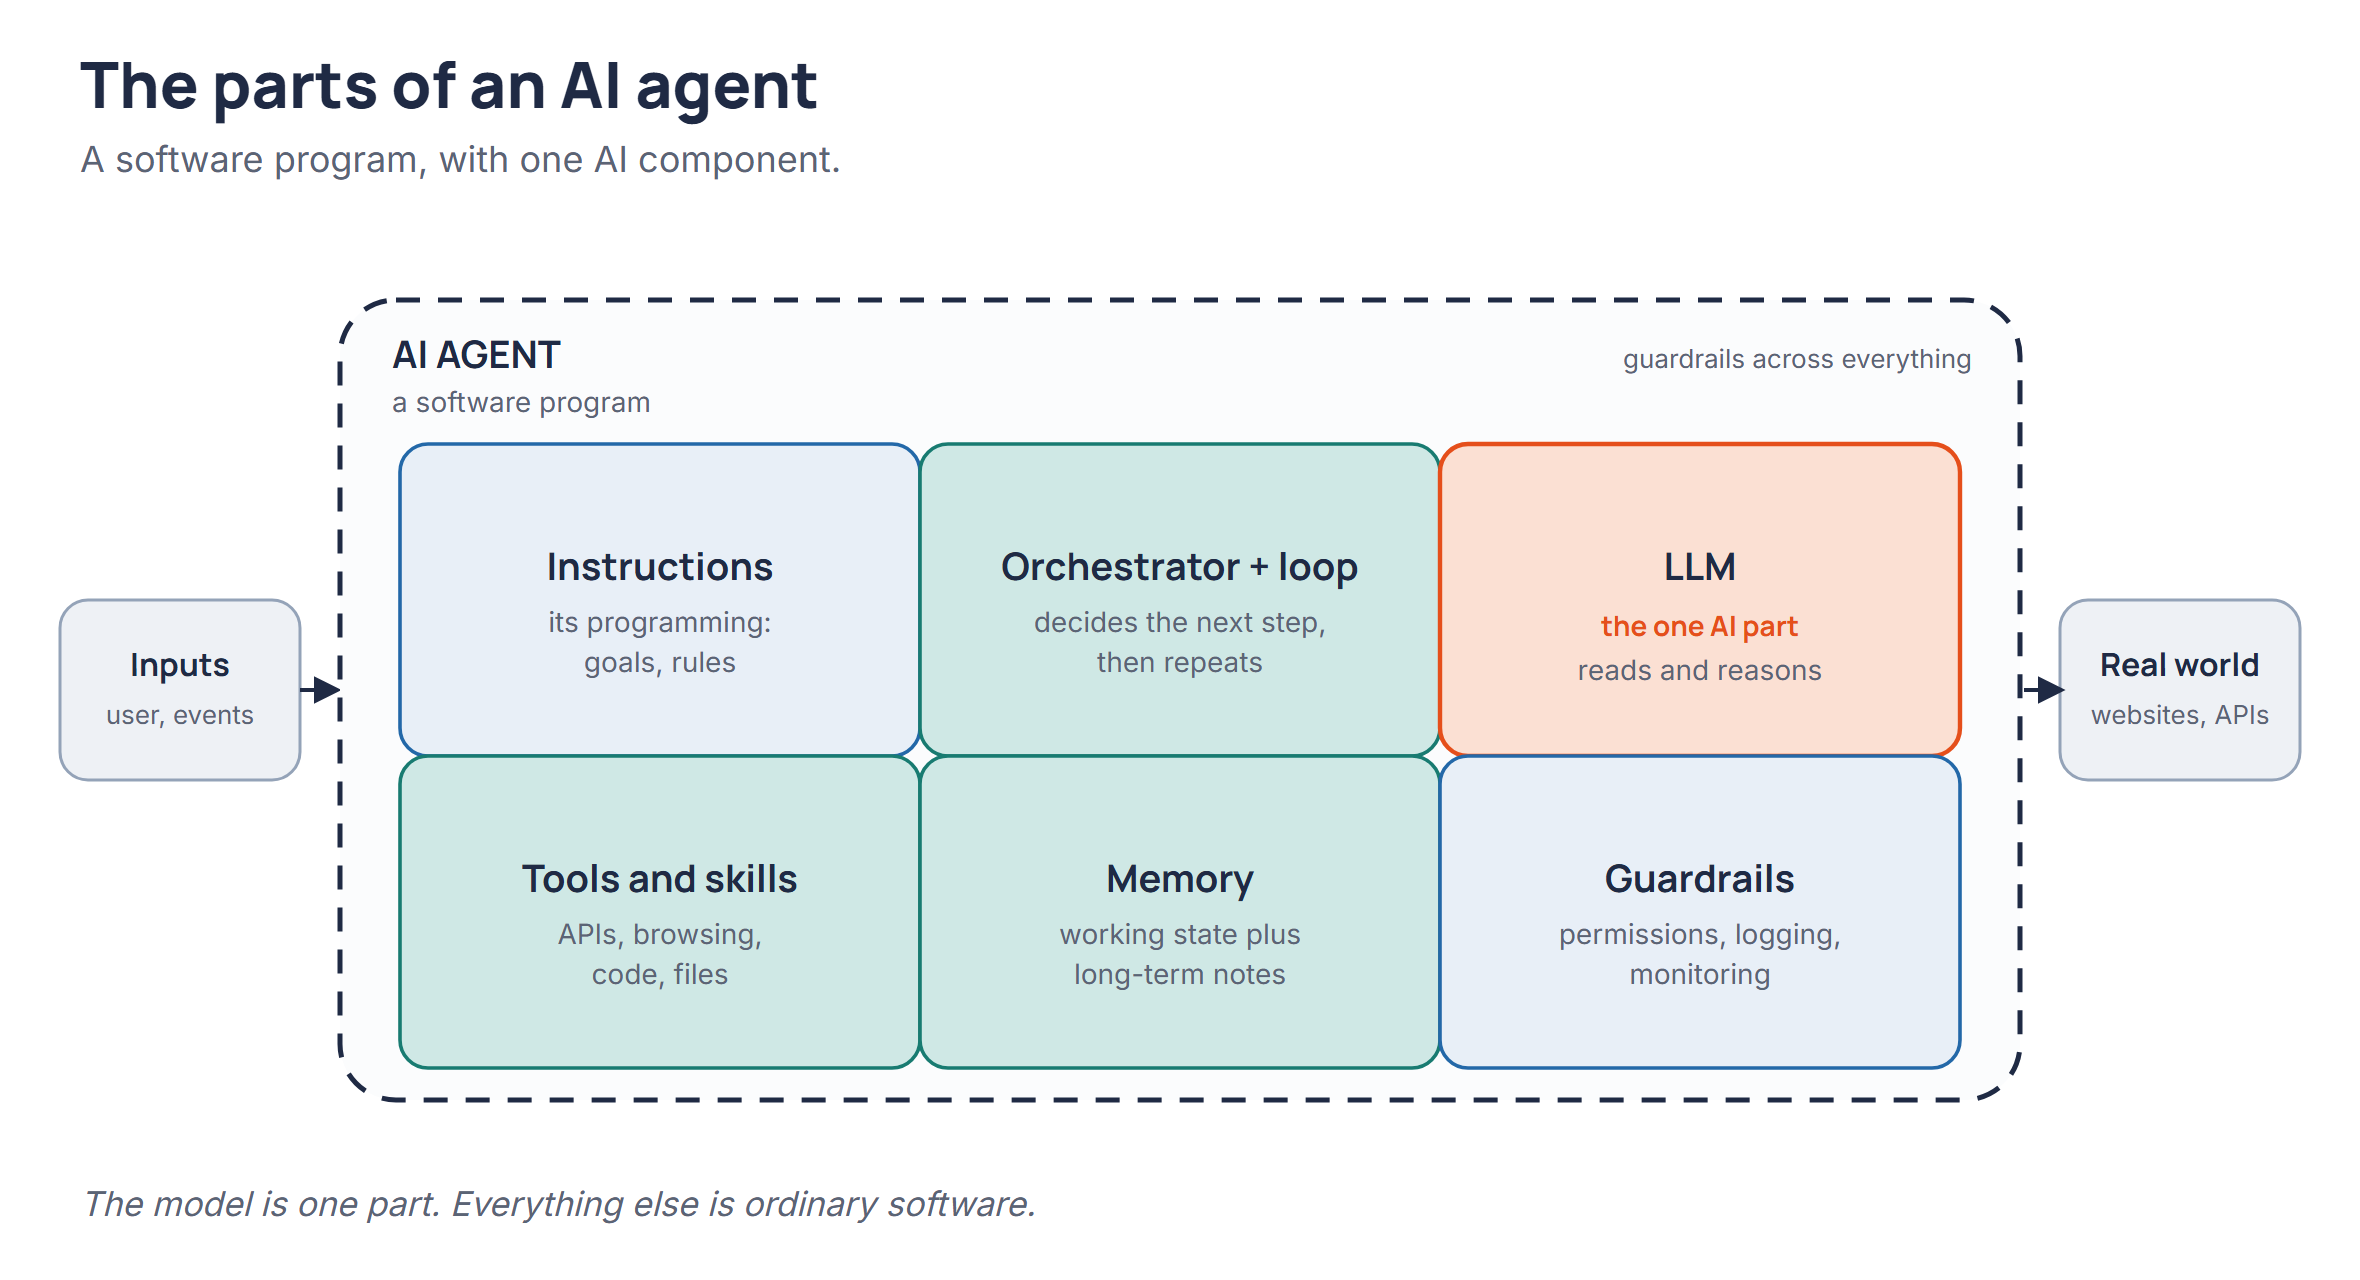
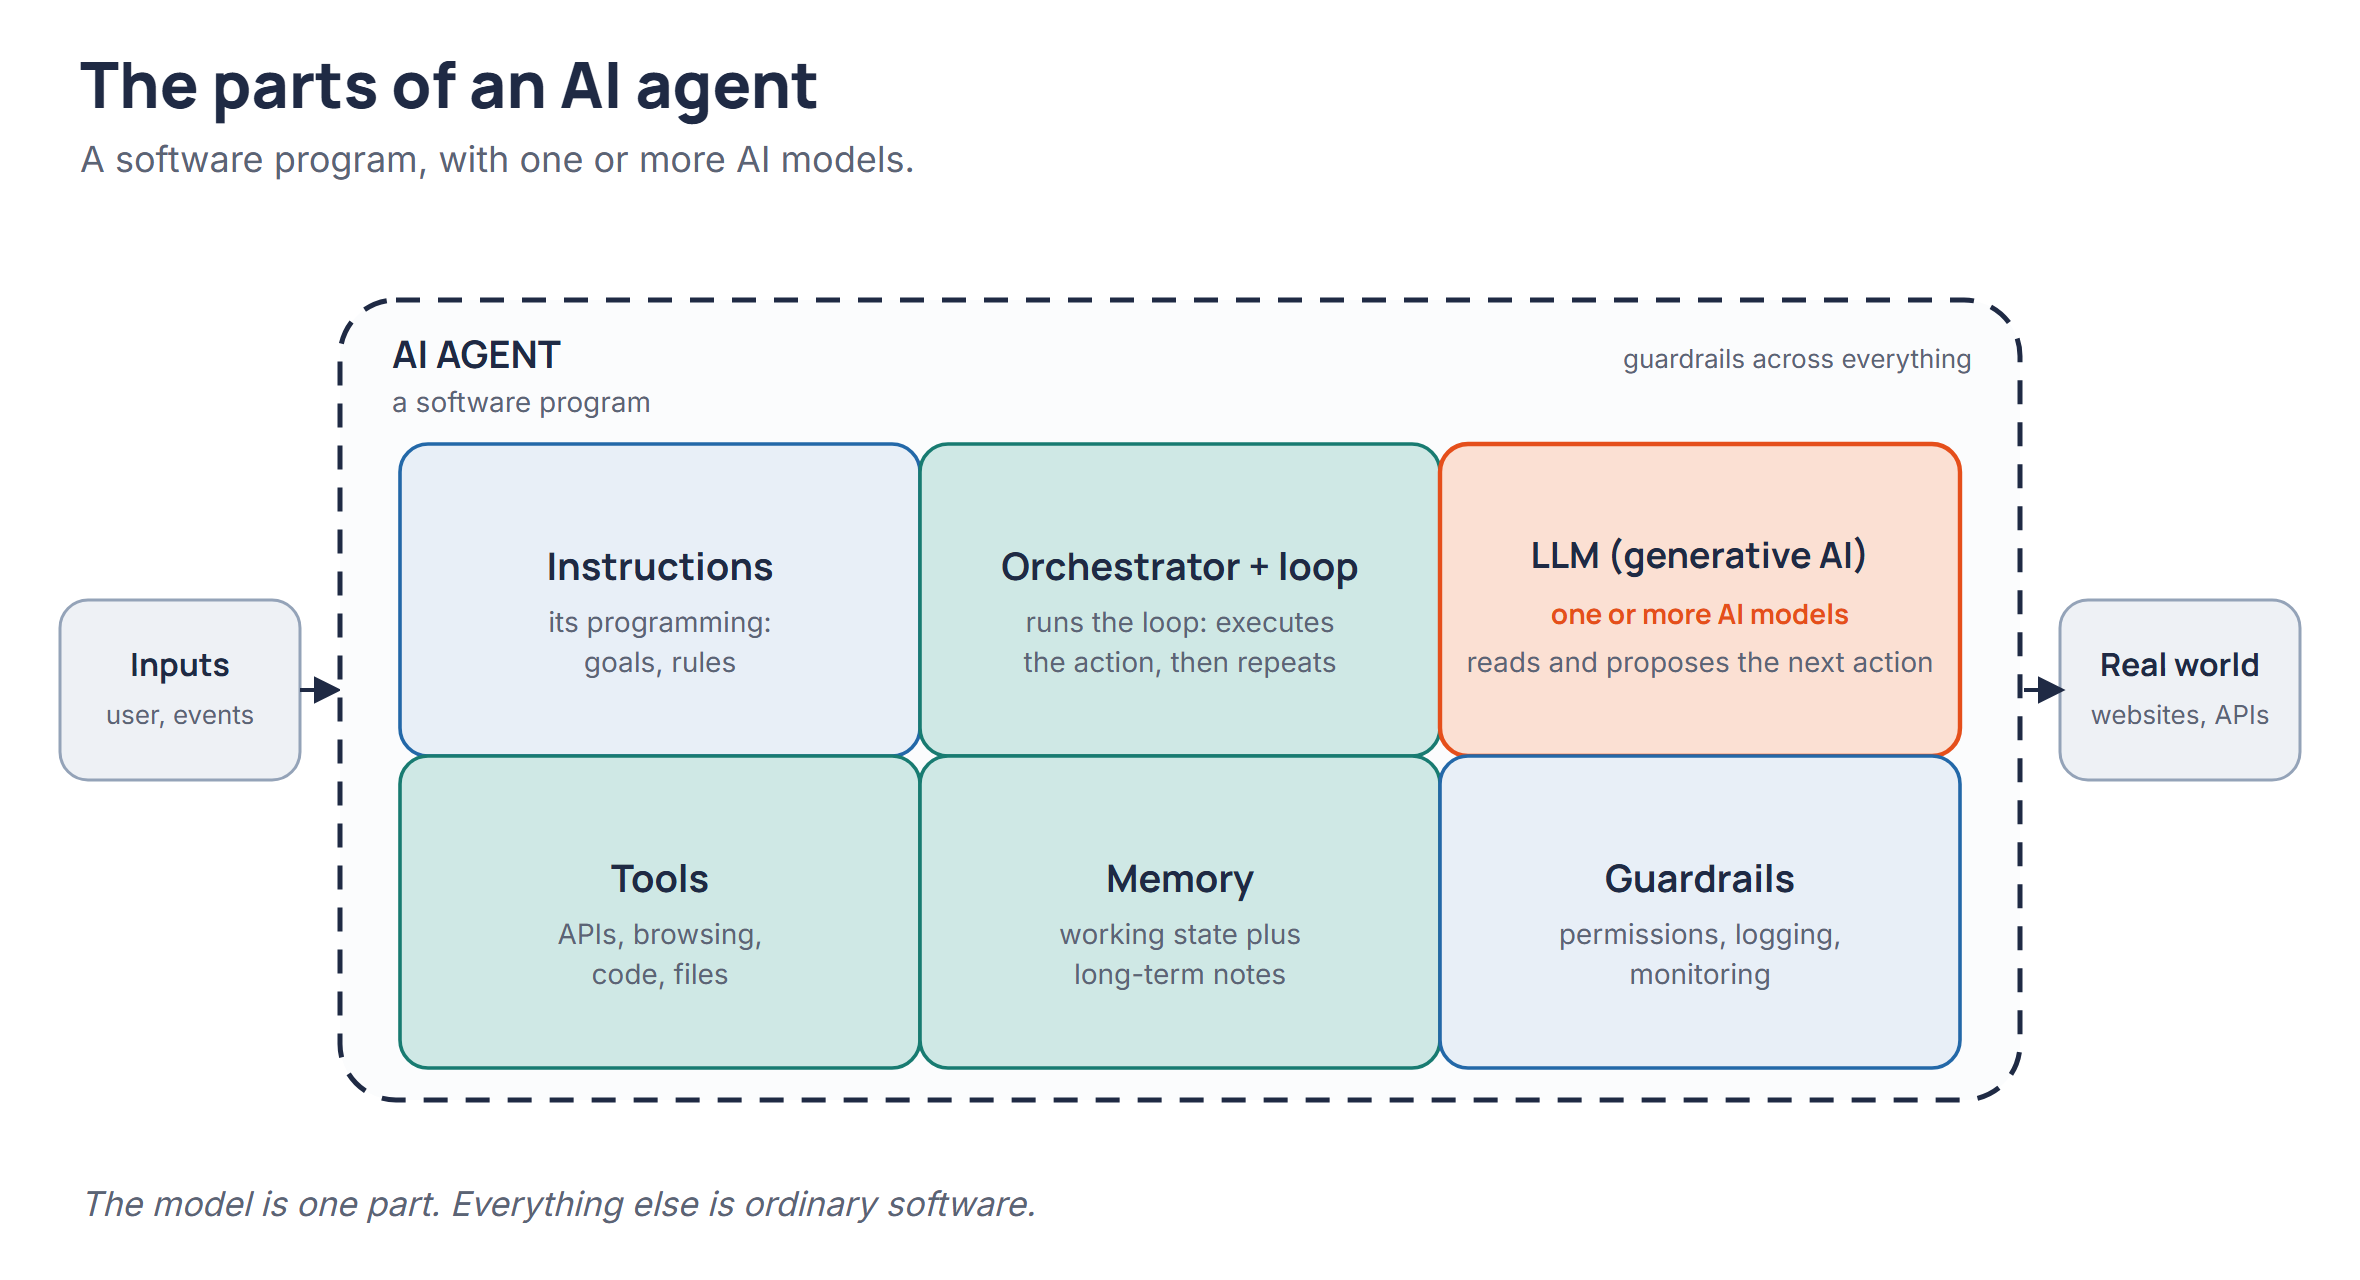
Update AI agent primer: one-or-more AI models, orchestrator accuracy, Tools (not skills), add 'Is ChatGPT an AI agent?' section

diff --git a/primers/what-is-an-ai-agent.html b/primers/what-is-an-ai-agent.html
@@ -4,7 +4,7 @@
   <meta charset="UTF-8" />
   <meta name="viewport" content="width=device-width, initial-scale=1.0" />
   <title>What Is an AI Agent? | FutureInSites</title>
-  <meta name="description" content="An AI agent is a software program with exactly one AI part inside it. A plain-language primer on the six parts of an agent, and how to tell an agent from everything else in the stack." />
+  <meta name="description" content="An AI agent is a software program with one or more AI models at its core. A plain-language primer on the six parts of an agent, and how to tell an agent from everything else in the stack." />
 
   <link rel="preconnect" href="https://fonts.googleapis.com">
   <link rel="preconnect" href="https://fonts.gstatic.com" crossorigin>
@@ -309,6 +309,8 @@
 
     .article-body strong { font-weight: 700; }
     .article-body em { font-style: italic; }
+    .article-body ul { margin: 0 0 1.5rem 1.6rem; }
+    .article-body li { font-size: 1.06rem; color: var(--dark); line-height: 1.85; margin-bottom: 0.4rem; }
 
     /* Pull quote */
     .pull-quote {
@@ -765,11 +767,11 @@
       <a href="../resources.html" class="back-link">← Back to Resources</a>
       <span class="article-eyebrow">Primer</span>
       <h1>What Is an AI Agent?</h1>
-      <p class="article-deck">An AI agent is a software program with exactly one AI part inside it. Here is what that means, what the parts are, and how to tell an agent from everything else in the stack.</p>
+      <p class="article-deck">An AI agent is a software program with one or more AI models at its core. Here is what that means, what the parts are, and how to tell an agent from everything else in the stack.</p>
       <div class="article-meta">
         <span>FutureInSites</span>
         <span class="dot"></span>
-        <span>6 min read</span>
+        <span>7 min read</span>
       </div>
     </div>
   </div>
@@ -779,10 +781,10 @@
 
     <p class="lede">"AI agent" is one of the most used and least defined terms in the stack. The clearest definition is structural: <strong>an AI agent is a software program, and the AI model is only one part inside it.</strong> Everything else that makes it work is ordinary software.</p>
 
-    <p>A model on its own answers a question and stops. It reads text and writes text. An agent is what you get when you wrap that model in a program that can hold a goal, decide the next step, use tools, remember what it has done, and repeat until the work is finished. The model is the one part that reasons. The rest of the program is what turns that reasoning into action.</p>
+    <p>A model on its own answers a question and stops. It reads text and writes text. An agent is what you get when you wrap that model in a program that can hold a goal, decide the next step, use tools, remember what it has done, and repeat until the work is finished. The model is the part that reasons. The rest of the program is what turns that reasoning into action.</p>
 
     <figure class="article-figure">
-      <img src="../articles/ai-agent-compartments.png" alt="The parts of an AI agent: instructions, orchestrator and loop, LLM, tools and skills, memory, and guardrails, arranged around a software program." title="Click to enlarge">
+      <img src="../articles/ai-agent-compartments.png" alt="The parts of an AI agent: instructions, orchestrator and loop, LLM, tools, memory, and guardrails, arranged around a software program." title="Click to enlarge">
       <figcaption>The parts of an AI agent. The model is one part. Everything else is ordinary software.</figcaption>
     </figure>
 
@@ -796,13 +798,13 @@
 
     <p>Six parts make up a typical agent. Only one of them is AI.</p>
 
-    <p><strong>Instructions (its programming).</strong> The goals, rules, and guardrails written in plain language. This is the agent's job description, and it shapes every decision the agent makes.</p>
+    <p><strong>Instructions (its programming).</strong> The goals and rules written in plain language. This is the agent's job description, and it shapes every decision the agent makes.</p>
 
-    <p><strong>Orchestrator and loop.</strong> The logic that decides the next step, runs it, reads the result, and repeats until the goal is met or the budget runs out. This loop is what separates an agent from a single answer.</p>
+    <p><strong>Orchestrator and loop.</strong> The code that runs the loop: it gives the model the current state, takes back the model's proposed action, checks and runs it, and repeats until the goal is met or the budget runs out. This loop is what separates an agent from a single answer.</p>
 
-    <p><strong>LLM (generative AI).</strong> The one AI part. It reads the current situation and reasons about what to do next. It is powerful, and it is still one component inside the program.</p>
+    <p><strong>LLM (generative AI).</strong> The AI part. It reads the current situation and proposes the next action. It may be one model or several working together, and it is still one component inside the program.</p>
 
-    <p><strong>Tools and skills.</strong> The connections that let the agent act in the world: APIs, web browsing, code, and files. Tools are what turn reasoning into an effect.</p>
+    <p><strong>Tools.</strong> The connections that let the agent act in the world: APIs, web browsing, code, and files. Tools are what turn a proposed action into an effect.</p>
 
     <p><strong>Memory.</strong> Working state for the task in front of it, plus longer-term notes it carries forward. Memory is what lets an agent build on what it already did instead of starting over.</p>
 
@@ -831,6 +833,21 @@
     <p>When a product, a feature, or a demo arrives with the word "agent" on the label, ask one question: <strong>does this decide and act on its own, or does it sit there until it is used?</strong> If it decides and acts, it is an agent. If it waits, it is a capability or a connection wearing the word.</p>
 
     <p>That single question does most of the work. It shows where the leverage is, which is the parts that act, and it shows where the controls belong, which is the same parts. An agent that decides and acts is the only part of the stack that needs guardrails, memory you can inspect, and logs you can read.</p>
+
+    <h2>Is ChatGPT an AI agent?</h2>
+
+    <p>ChatGPT is a software product that can host several kinds of AI interaction. Depending on the mode and task, it may operate as:</p>
+
+    <ul>
+      <li>A chatbot that generates a response</li>
+      <li>A tool-using assistant that searches or analyzes files</li>
+      <li>An agent that performs a multistep task through repeated model and tool calls</li>
+      <li>A platform that hosts configured workspace agents</li>
+    </ul>
+
+    <p>A simple chat response is not necessarily agentic. If you ask, "Rewrite this paragraph," ChatGPT may call the model once and return its output. If you ask it to research a topic, inspect files, execute code, evaluate results, and continue until it reaches an answer, ChatGPT is operating as an agent. OpenAI describes this behavior as a sequence of model requests and tool calls coordinated by an agentic harness.</p>
+
+    <p>So the most precise statement is: <strong>ChatGPT is an AI application with agentic capabilities. In some modes and tasks, it functions as an AI agent.</strong></p>
 
     <h2>Why the distinction matters</h2>
 
